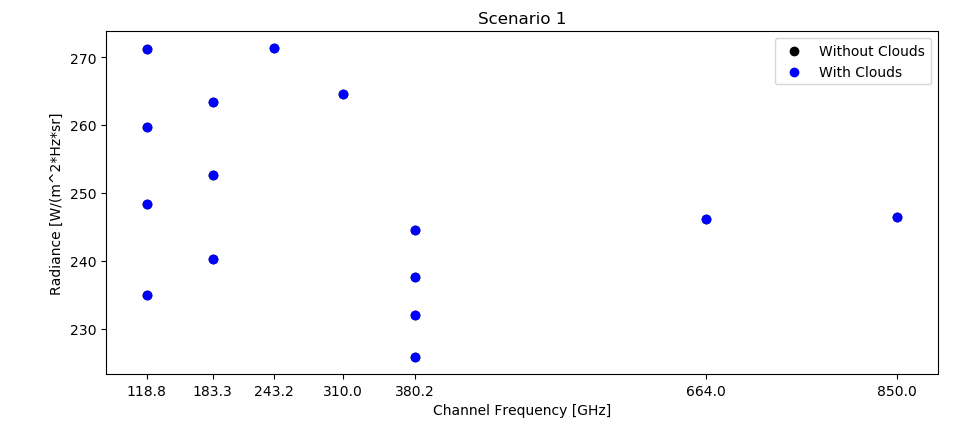
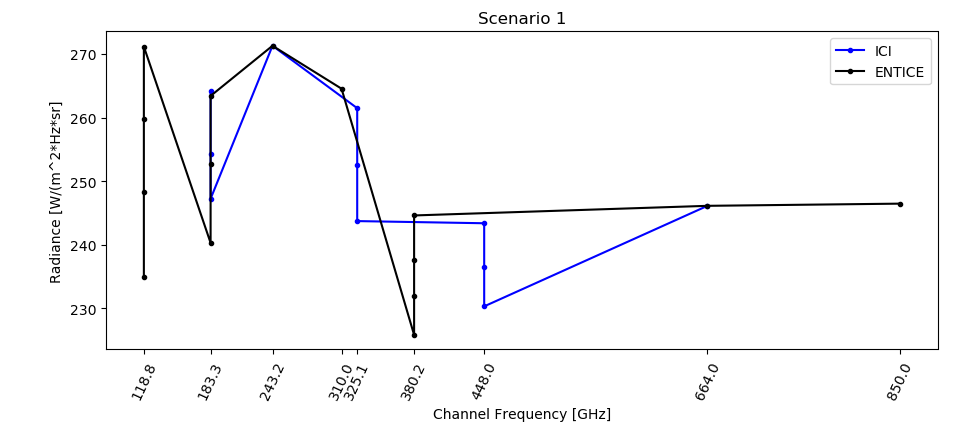
added ICI sim to the figures

diff --git a/ENTICE/xml_analysisENTICE.py b/ENTICE/xml_analysisENTICE.py
@@ -8,6 +8,7 @@ from bs4 import BeautifulSoup
 import re
 import numpy as np
 import matplotlib.pyplot as plt
+from sympy import rotations
 
 def myxmlreader(xmlfile):
 	# Reading the data inside the xml
@@ -46,6 +47,17 @@ ENTICE_freq = [118.75,
 			   380.20,
 			   664.00,
 			   850.00]
+ICI_freq = [183.31,
+			183.31,
+			183.31,
+			243.2,
+			325.15,
+			325.15,
+			325.15,
+			448,
+			448,
+			448,
+			664]
 Offset_freq = ['1',
 			   '2',
 			   3,
@@ -61,16 +73,22 @@ Offset_freq = ['1',
 			   6.20,
 			   4.20,
 			   4.20]
-ENTICE_freq_str = list(set(ENTICE_freq))
+# ENTICE_freq_str = list(set(ENTICE_freq))
+# ICI_freq_str = list(set(ICI_freq))
+freq = ENTICE_freq+ICI_freq
+freq.sort()
+freq_str = list(set(freq))
+
 #for x in ENTICE_freq:
 #	ENTICE_freq_str.append(str(x))
 
 #Read in the Simulation Data
-ENTICE_data = myxmlreader('ENTICE/ENTICE_test.ybatch.xml')
-ENTICEwC_data = myxmlreader('ENTICE/ENTICEwC_test.ybatch.xml')
+ENTICE_data = myxmlreader('ENTICE_test.ybatch.xml')
+ENTICEwC_data = myxmlreader('ENTICEwC_test.ybatch.xml')
+ICI_data = myxmlreader('ICI_test.ybatch.xml')
 # The number of channels
 n = 15
-
+n1 = 11
 #Scenario Data
 ENTICE_sl = ENTICE_data[0:n]
 ENTICE_s2 = ENTICE_data[n:2*n]
@@ -86,71 +104,83 @@ ENTICEwC_s4 = ENTICE_data[3*n:4*n]
 ENTICEwC_s5 = ENTICE_data[4*n:5*n]
 ENTICEwC_s6 = ENTICE_data[5*n:6*n]
 
+ICI_s1 = ICI_data[0:n1]
+ICI_s2 = ICI_data[n1:2*n1]
+ICI_s3 = ICI_data[2*n1:3*n1]
+ICI_s4 = ICI_data[3*n1:4*n1]
+ICI_s5 = ICI_data[4*n1:5*n1]
+ICI_s6 = ICI_data[5*n1:6*n1]
+
 
 # Figure 1
 fig = plt.figure()
-plt.xticks(ENTICE_freq_str)
+plt.xticks(freq_str,rotation=65)
 plt.xlabel('Channel Frequency [GHz]')
 plt.ylabel('Radiance [W/(m^2*Hz*sr]')
 plt.title('Scenario 1')
-plt.scatter(ENTICE_freq, ENTICE_sl,c='k')
-plt.scatter(ENTICE_freq, ENTICEwC_sl,c='b')
-plt.legend(['Without Clouds','With Clouds'])
+plt.plot(ICI_freq, ICI_s1, c='b', marker= '.')
+plt.plot(ENTICE_freq, ENTICE_sl, c='k', marker= '.')
+plt.legend(['ICI','ENTICE'])
 fig.tight_layout()
 
 # Figure 2
 fig = plt.figure()
-plt.xticks(ENTICE_freq_str)
+plt.xticks(freq_str,rotation=65)
 plt.xlabel('Channel Frequency [GHz]')
 plt.ylabel('Radiance [W/(m^2*Hz*sr]')
 plt.title('Scenario 2')
-plt.scatter(ENTICE_freq, ENTICE_s2, c='k')
-plt.scatter(ENTICE_freq, ENTICEwC_s2,c='b')
-plt.legend(['Without Clouds','With Clouds'])
+plt.plot(ICI_freq, ICI_s2, c='b', marker= '.')
+plt.plot(ENTICE_freq, ENTICE_s2, c='k', marker= '.')
+#plt.scatter(ENTICE_freq, ENTICEwC_s2,c='b')
+plt.legend(['ICI','ENTICE'])
 fig.tight_layout()
 
 # Figure 3
 fig = plt.figure()
-plt.xticks(ENTICE_freq_str)
+plt.xticks(freq_str,rotation=65)
 plt.xlabel('Channel Frequency [GHz]')
 plt.ylabel('Radiance [W/(m^2*Hz*sr]')
 plt.title('Scenario 3')
-plt.scatter(ENTICE_freq, ENTICE_s3,c='k')
-plt.scatter(ENTICE_freq, ENTICEwC_s3,c='b')
-plt.legend(['Without Clouds','With Clouds'])
+plt.plot(ICI_freq, ICI_s3, c='b', marker= '.')
+plt.plot(ENTICE_freq, ENTICE_s3, c='k', marker= '.')
+#plt.scatter(ENTICE_freq, ENTICEwC_s3,c='b')
+plt.legend(['ICI','ENTICE'])
 fig.tight_layout()
 
 # Figure 4
 fig = plt.figure()
-plt.xticks(ENTICE_freq_str)
+plt.xticks(freq_str, rotation=65)
 plt.xlabel('Channel Frequency [GHz]')
 plt.ylabel('Radiance [W/(m^2*Hz*sr]')
 plt.title('Scenario 4')
-plt.scatter(ENTICE_freq, ENTICE_s4,c='k')
-plt.scatter(ENTICE_freq, ENTICEwC_s4,c='b')
-plt.legend(['Without Clouds','With Clouds'])
+plt.plot(ICI_freq, ICI_s4, c='b', marker= '.')
+plt.plot(ENTICE_freq, ENTICE_s4, c='k', marker= '.')
+#plt.scatter(ENTICE_freq, ENTICEwC_s4,c='b')
+plt.legend(['ICI','ENTICE'])
 fig.tight_layout()
 
 # Figure 5
 fig = plt.figure()
-plt.xticks(ENTICE_freq_str)
+plt.xticks(freq_str, rotation=65)
 plt.xlabel('Channel Frequency [GHz]')
 plt.ylabel('Radiance [W/(m^2*Hz*sr]')
 plt.title('Scenario 5')
-plt.scatter(ENTICE_freq, ENTICE_s5,c='k')
-plt.scatter(ENTICE_freq, ENTICEwC_s5,c='b')
-plt.legend(['Without Clouds','With Clouds'])
+plt.plot(ICI_freq, ICI_s5, c='b', marker= '.')
+plt.plot(ENTICE_freq, ENTICE_s5, c='k', marker= '.')
+#plt.scatter(ENTICE_freq, ENTICEwC_s5,c='b')
+plt.legend(['ICI','ENTICE'])
 fig.tight_layout()
 
 # Figure 6
 fig = plt.figure()
-plt.xticks(ENTICE_freq_str)
+plt.xticks(freq_str, rotation=65)
 plt.xlabel('Channel Frequency [GHz]')
 plt.ylabel('Radiance [W/(m^2*Hz*sr]')
 plt.title('Scenario 6')
-plt.scatter(ENTICE_freq, ENTICE_s6,c='k')
-plt.scatter(ENTICE_freq, ENTICEwC_s6,c='b')
-plt.legend(['Without Clouds','With Clouds'])
+plt.plot(ICI_freq, ICI_s6, c='b', marker= '.')
+plt.plot(ENTICE_freq, ENTICE_s6, c='k', marker= '.')
+#plt.scatter(ENTICE_freq, ENTICEwC_s6,c='b')
+plt.legend(['ICI','ENTICE'])
 fig.tight_layout()
 
 plt.show()
